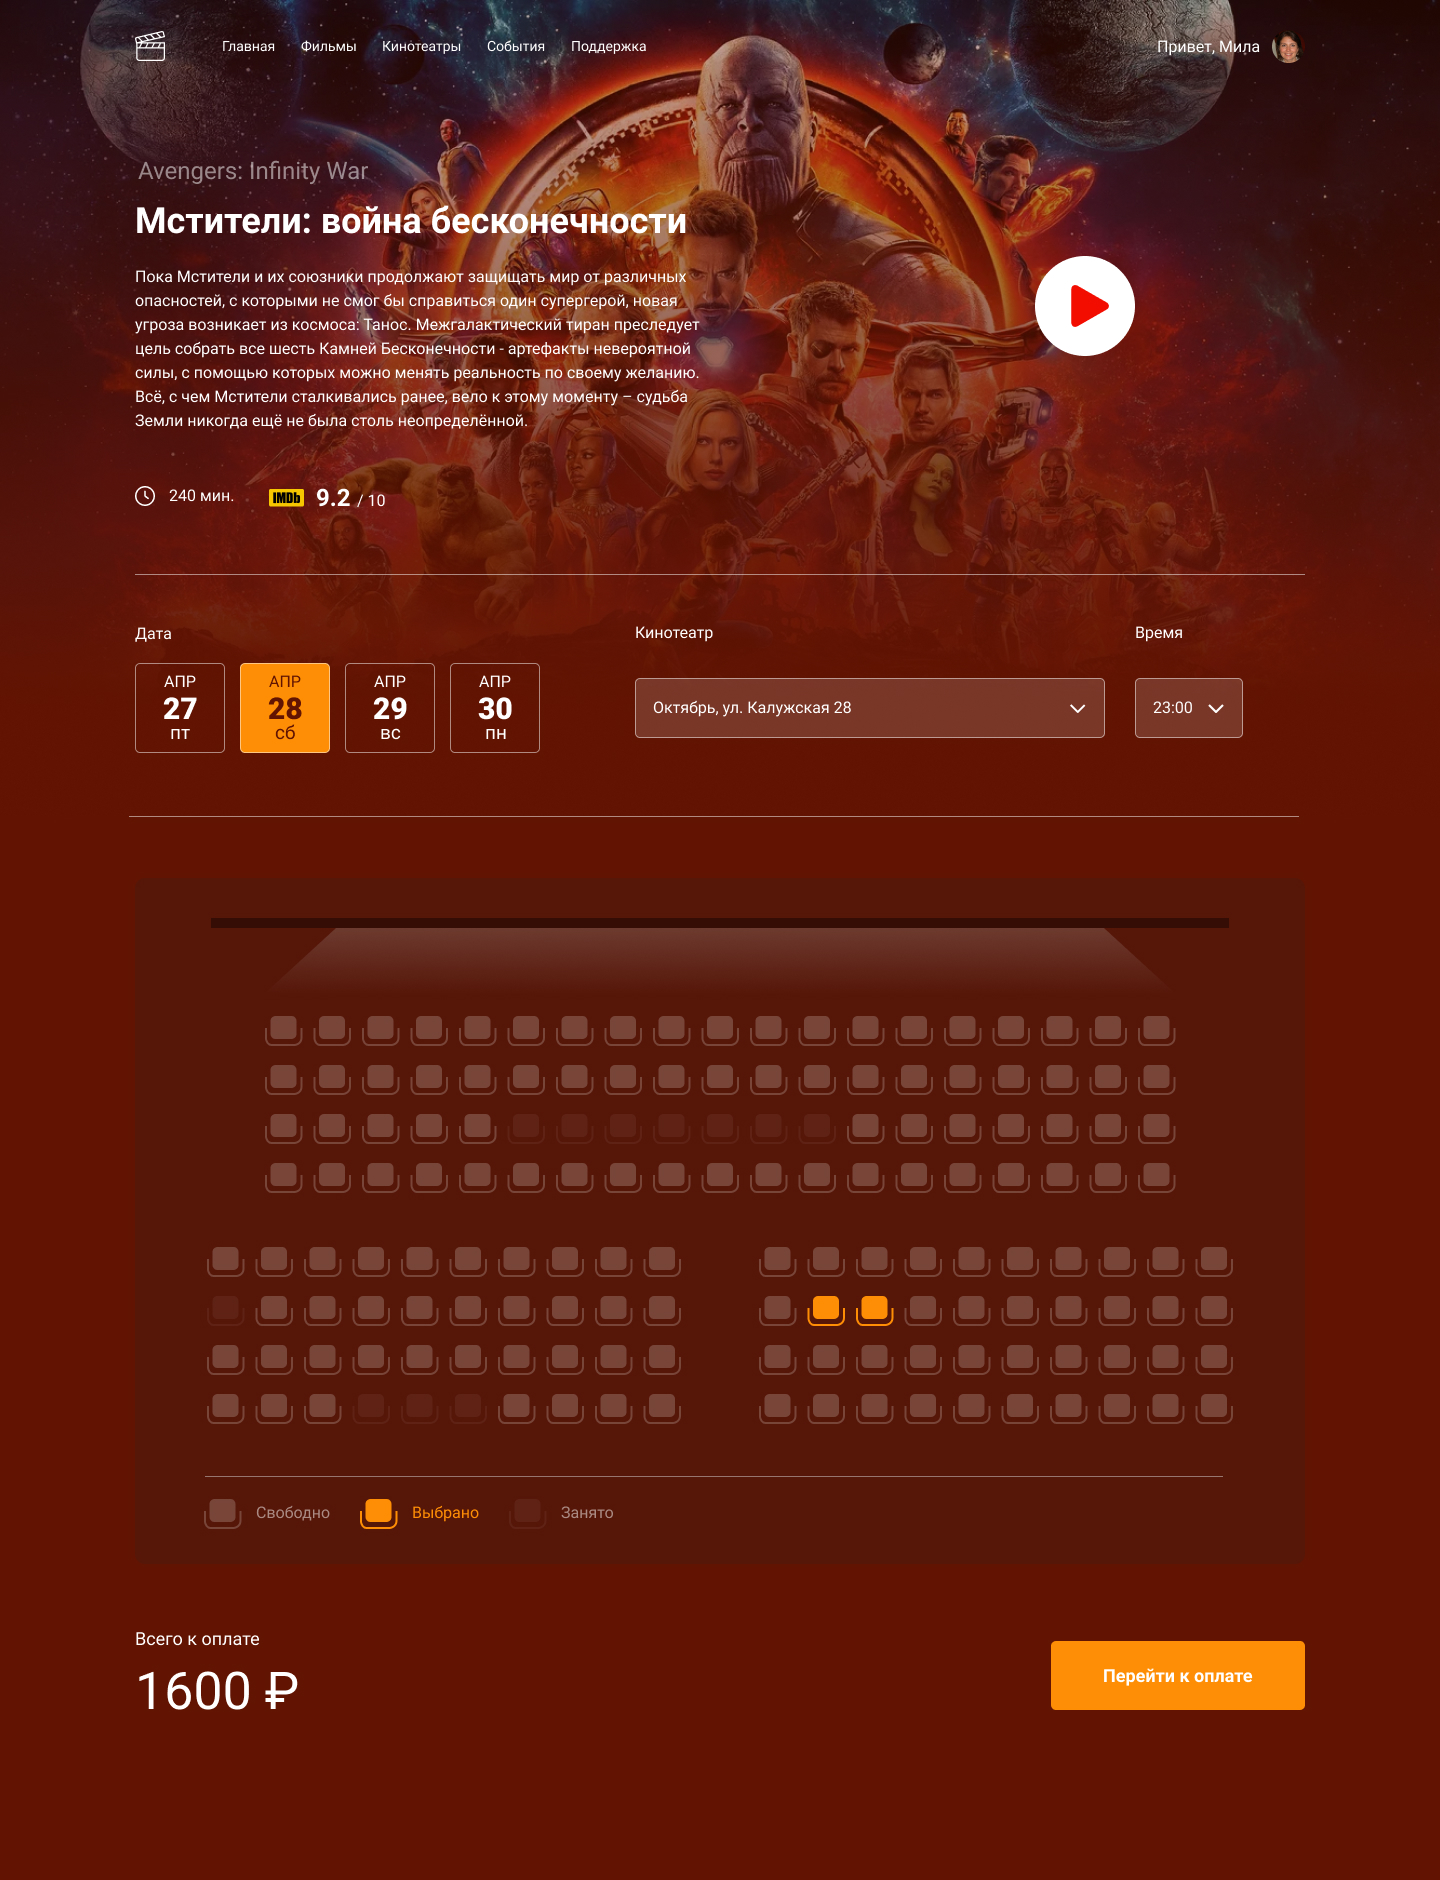
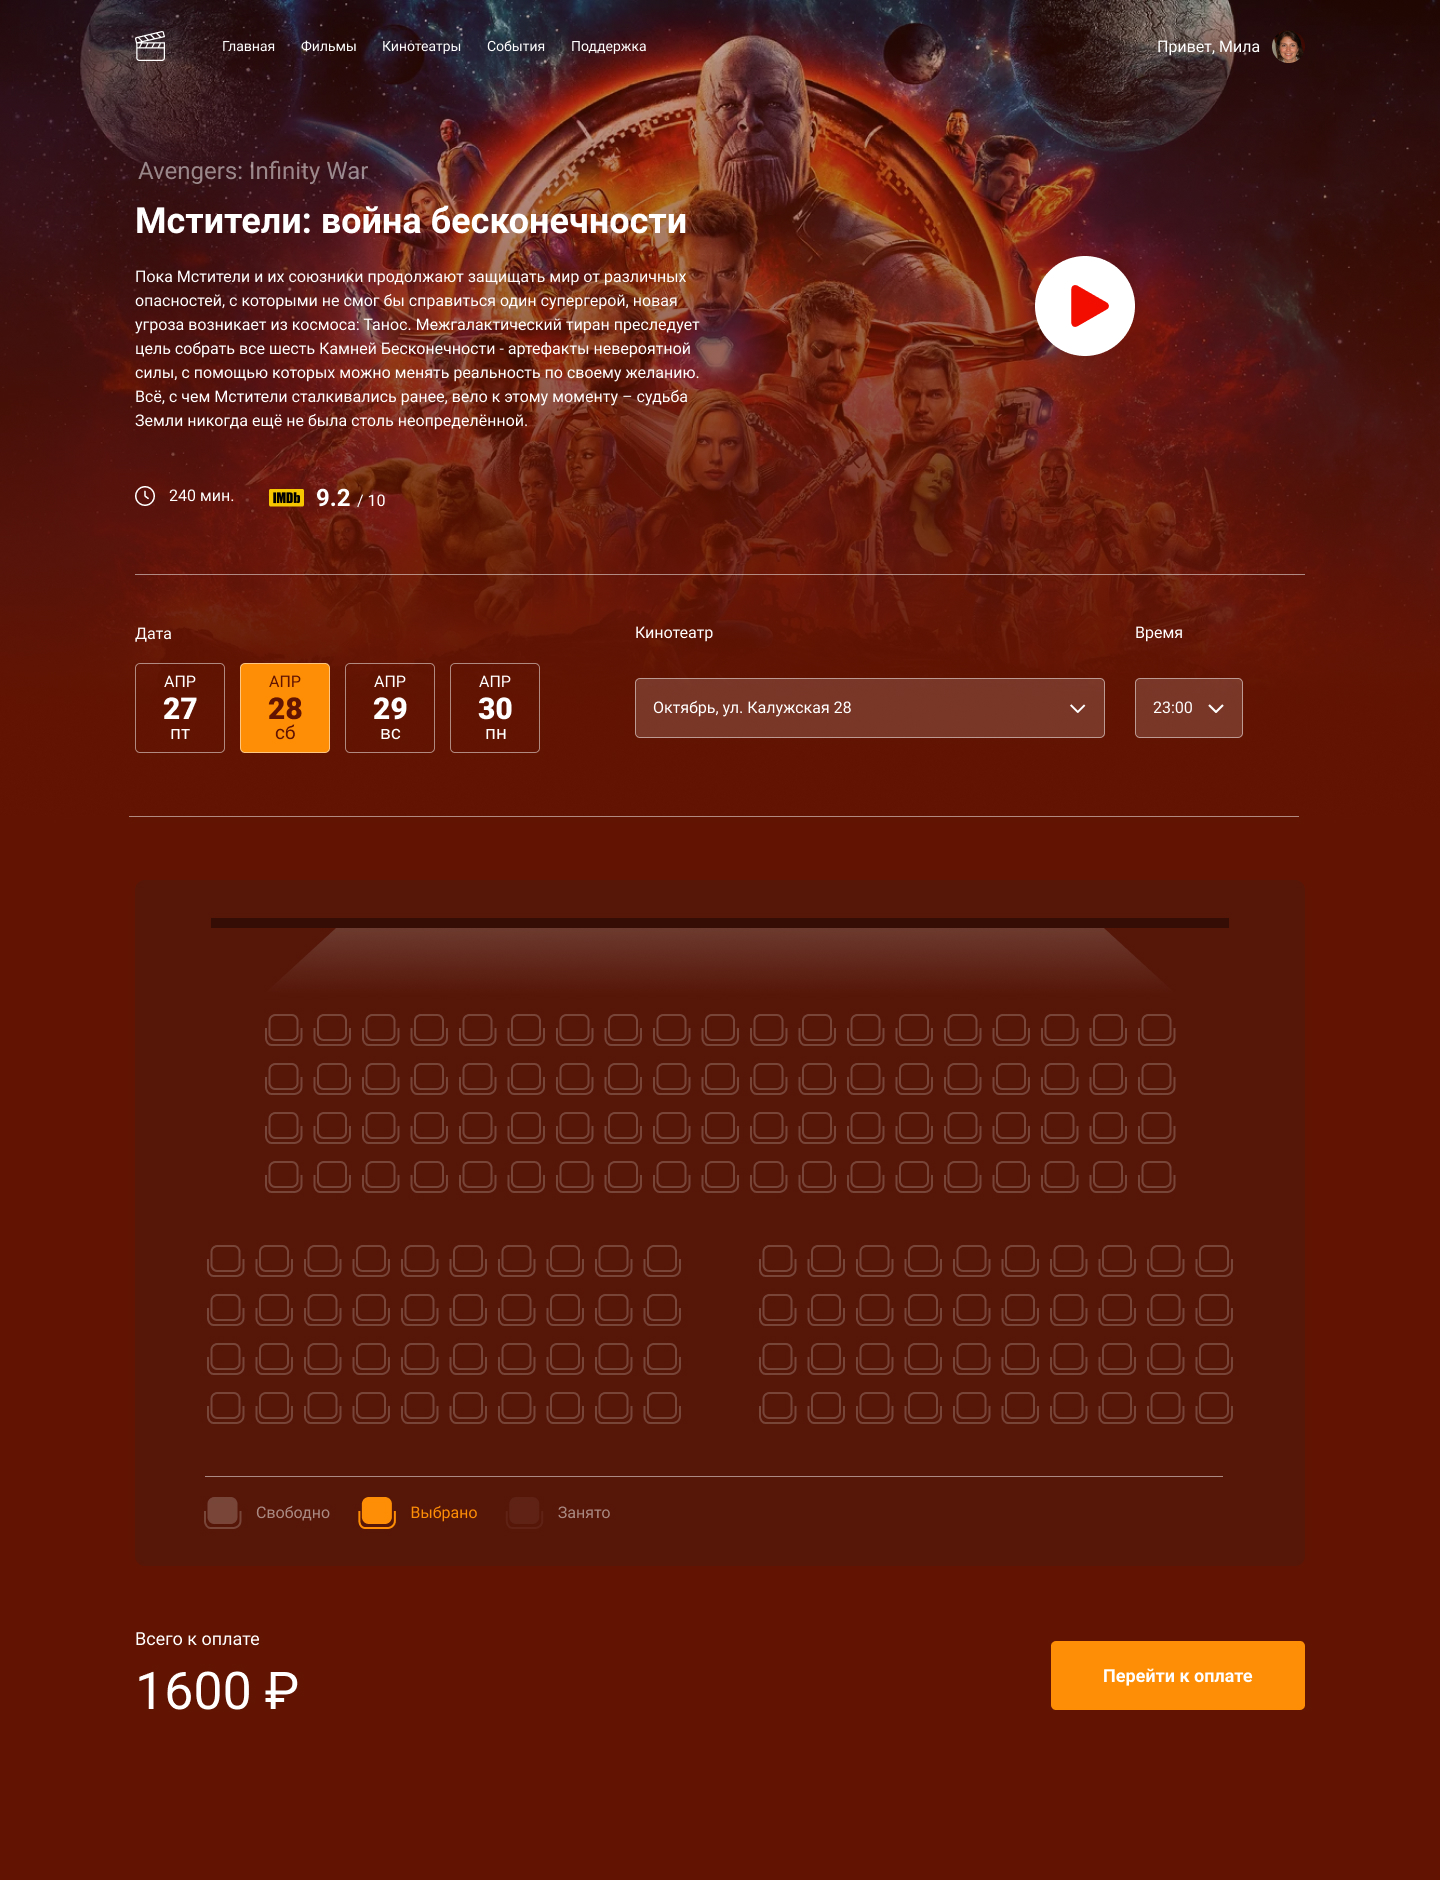
changed seat-legend hover

Changed region(s): [[0.125, 0.5245, 0.875, 0.7713], [0.2812, 0.8021, 0.3125, 0.833]]

diff --git a/index.html b/index.html
@@ -282,9 +282,9 @@
                 </defs>
             </svg>
             <div class="seat-legend">
-                <div class="seat-free seat-label">
+                <div class="seat-not-choosed seat-label">
                     <svg width="38" height="32" viewBox="0 0 38 32" fill="none" xmlns="http://www.w3.org/2000/svg">
-                        <path d="M10.5 1C7.18629 1 4.5 3.68629 4.5 7V20C4.5 23.3137 7.18629 26 10.5 26H26.5C29.8137 26 32.5 23.3137 32.5 20V7C32.5 3.68629 29.8137 1 26.5 1H10.5Z"/>
+                        <path class="seat-free" d="M10.5 1C7.18629 1 4.5 3.68629 4.5 7V20C4.5 23.3137 7.18629 26 10.5 26H26.5C29.8137 26 32.5 23.3137 32.5 20V7C32.5 3.68629 29.8137 1 26.5 1H10.5Z"/>
                     </svg>
                     <span class="seat-text">Свободно</span>
                 </div>

diff --git a/src/css/style.css b/src/css/style.css
@@ -364,6 +364,24 @@ body {
     margin-right: 16px;
 }
 
+.seat-legend path.seat-free, 
+.seat-legend path.seat-free:hover {
+    fill: rgba(255, 255, 255, 0.2);
+    cursor: default;
+}
+
+.seat-legend path.seat-active, 
+.seat-legend path.seat-active:hover {
+    fill: #FE8E05;
+    cursor: default;
+}
+
+.seat-legend path.seat-booked, 
+.seat-legend path.seat-booked:hover {
+    fill: rgba(255, 255, 255, 0.05);
+    cursor: default;
+}
+
 .seat-text {
     opacity: 0.5;
 }
@@ -373,6 +391,7 @@ body {
     align-items: center;
     justify-content: space-between;
     padding-top: 62px;
+    padding-bottom: 158px;
 }
 
 .price-label {
